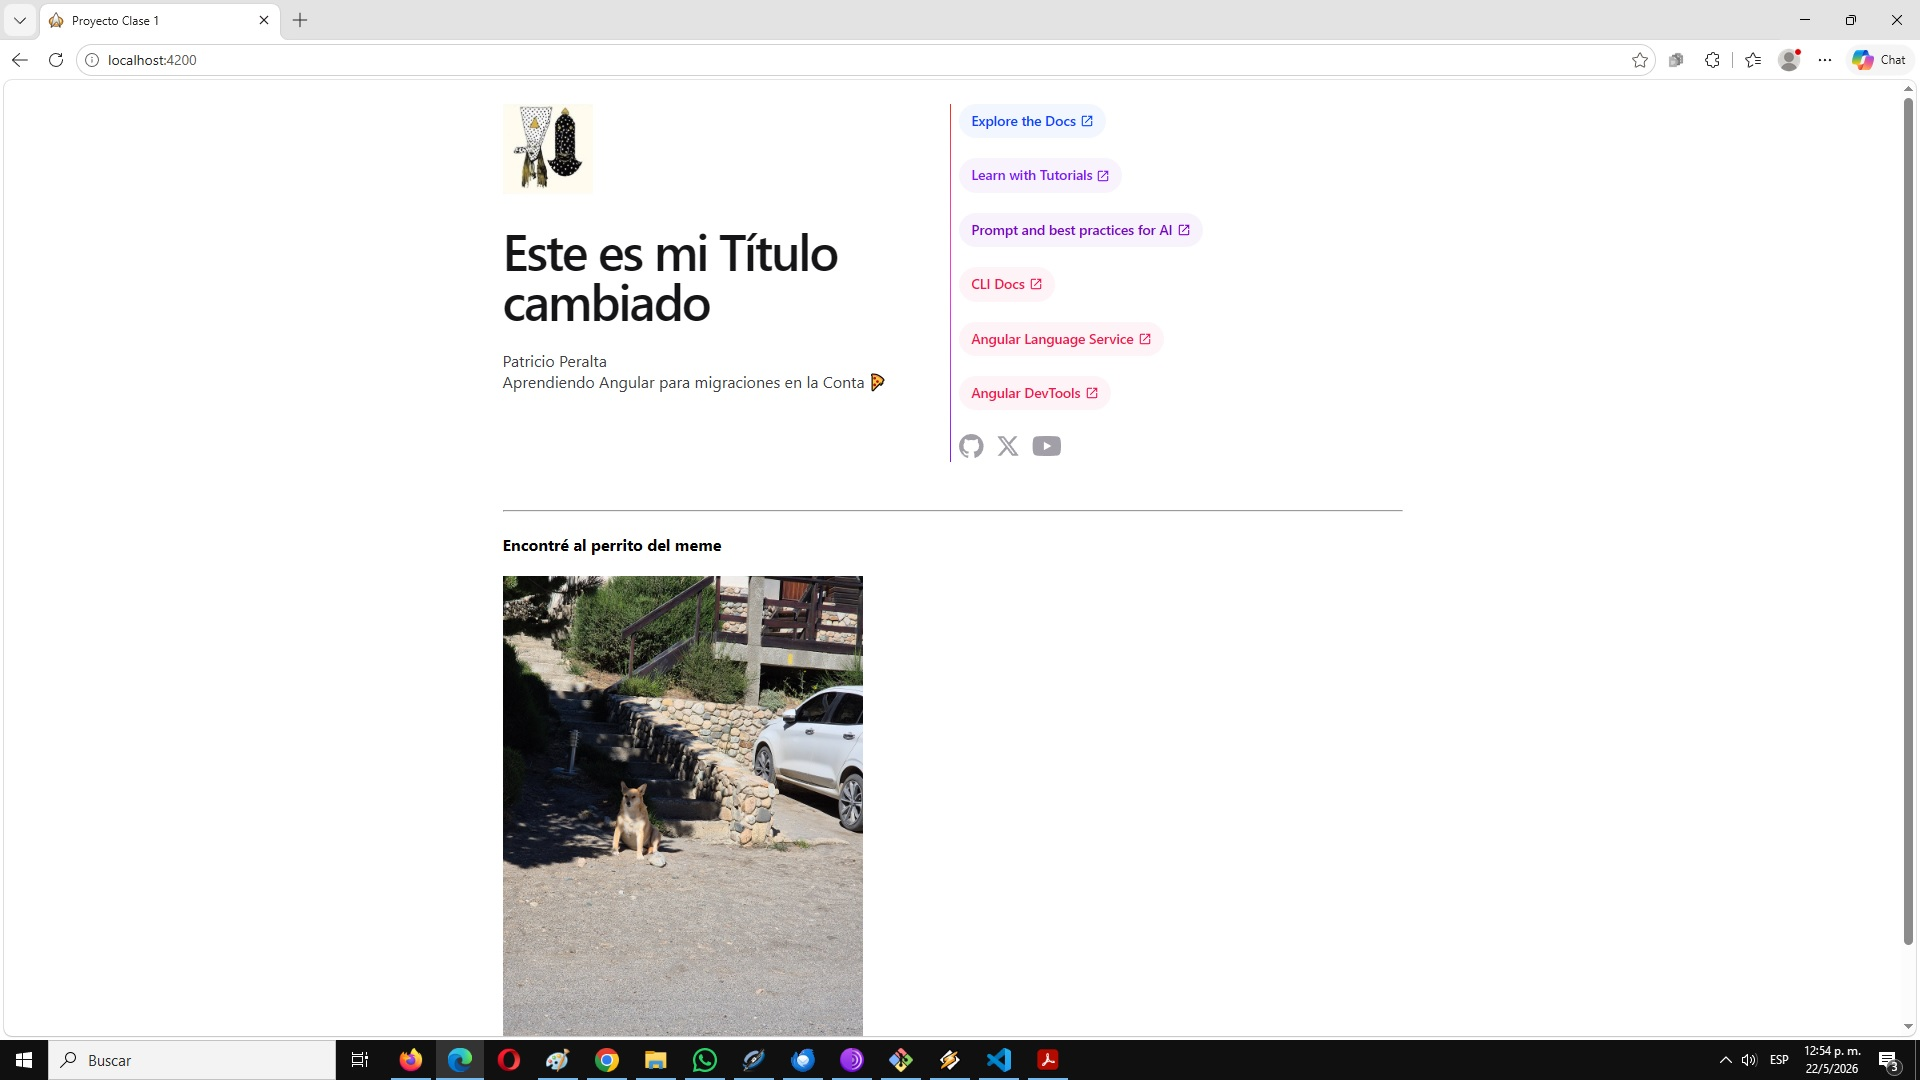
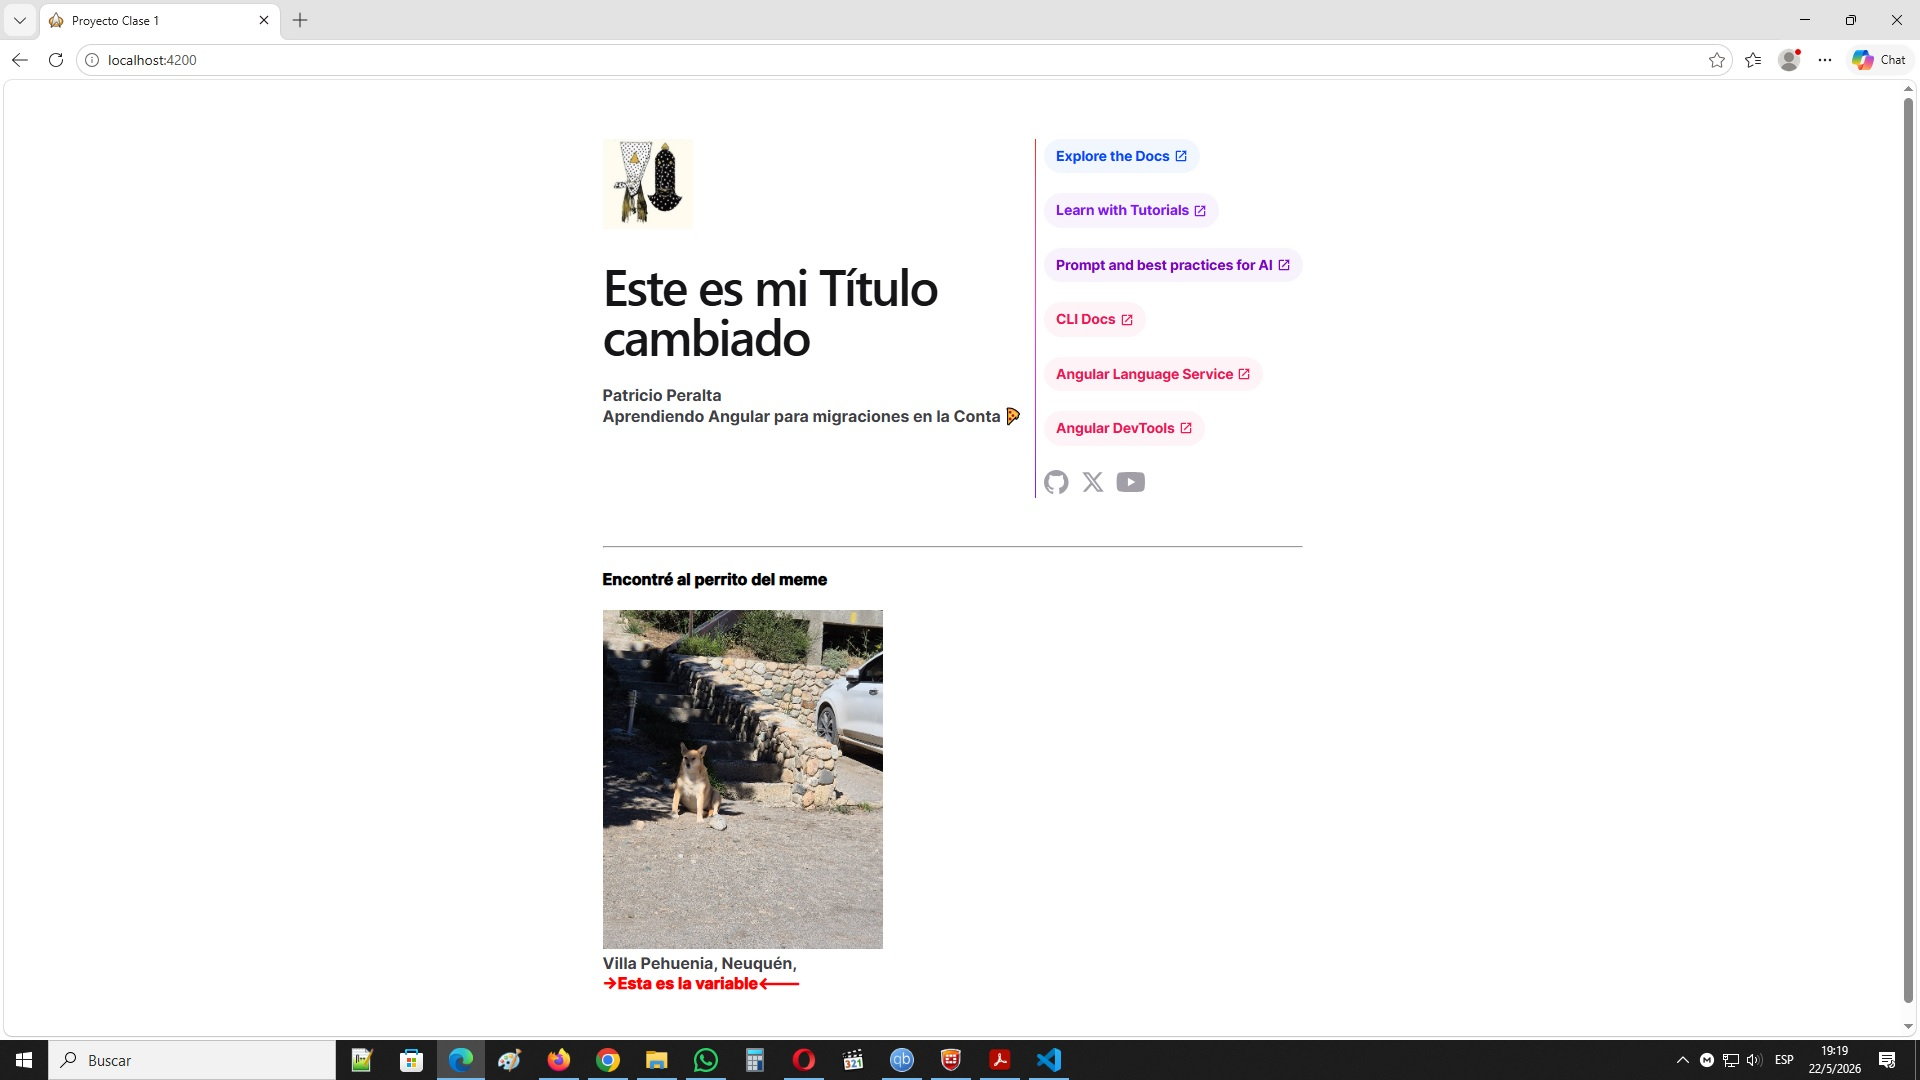
Final con signal en la variable

diff --git a/src/app/app.ts b/src/app/app.ts
@@ -9,5 +9,19 @@ import { RouterOutlet } from '@angular/router';
 })
 export class App {
   protected readonly title = signal('Título cambiado');
-  protected  variable: string = "->Esta es la variable<---";
+  protected  variable =  signal("->Esta es la variable<---");
+
+    //  EL CAMBIO: Usamos el constructor o ngOnInit
+  //  El instructivo no dice nada, si usar botón o cuando así que lo pongo acá
+  constructor() {
+    // Primero un Delay
+     
+    setTimeout(() => {
+      console.log("Cambiando valor...");
+      
+      this.variable.set("->Este es el cambio en la variable<---");
+      
+
+    }, 12000); // Tiempo para capturar la pantallang
+  }
 }

diff --git a/src/app/app.html b/src/app/app.html
@@ -337,7 +337,7 @@
   <div class="left-side">
       <h4>Encontré al perrito del meme</h4>
       <img src="perrrito.jpg"  class="img-responsa">
-      <p>Villa Pehuenia, Neuquén, <br/><span style="color: red; font-weight: bold;"> {{variable}}</span> </p> 
+      <p>Villa Pehuenia, Neuquén, <br/><span style="color: red; font-weight: bold;"> {{variable()}}</span> </p> 
       </div></div>
       </div>
 <!-- * * * * * * * * * * * * * * * * * * * * * * * * * * * * * * * * -->
